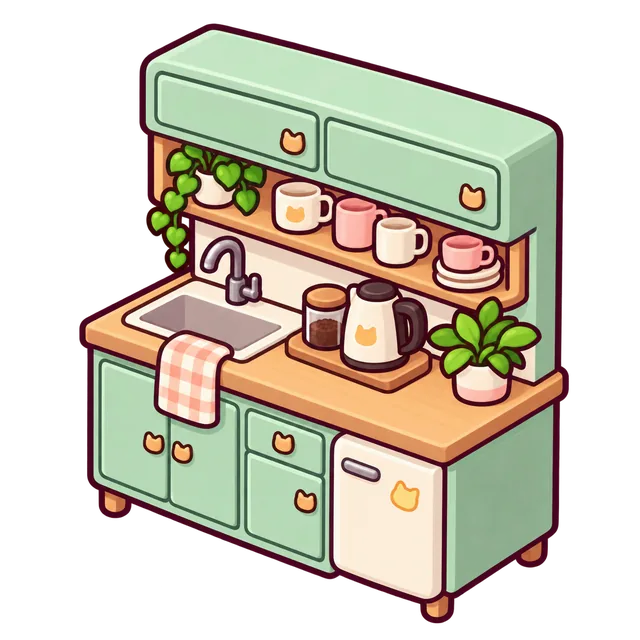
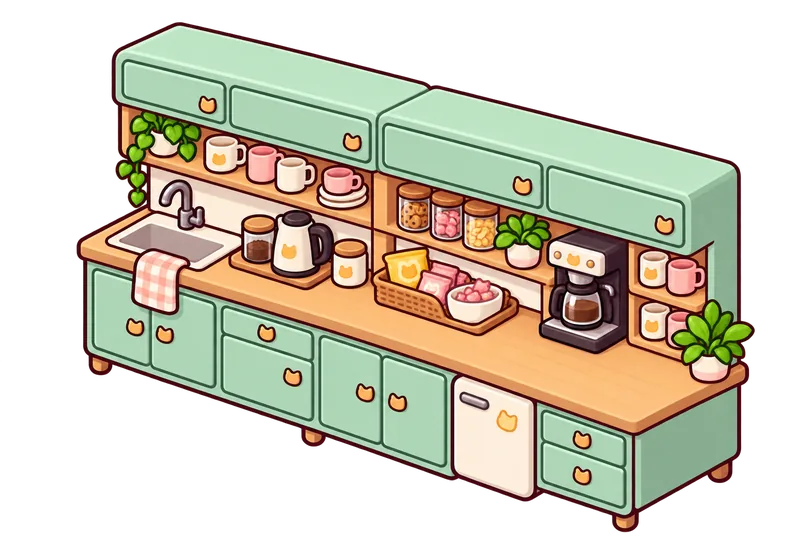
Widen breakroom and align furniture art with office floor

diff --git a/game.js b/game.js
@@ -11,7 +11,7 @@
     {id:'longRack',name:'긴 의류 행거',sprite:'prop-long-rack',level:1,type:'furniture',spanX:2,bonus:{efficiency:2}},
     {id:'computerDesk',name:'컴퓨터 책상',sprite:'prop-computer-desk',level:2,type:'furniture',spanX:2,bonus:{design:2,trend:1}},
     {id:'mannequin',name:'마네킹',sprite:'prop-mannequin',level:1,type:'furniture',bonus:{sewing:2}},
-    {id:'breakroom',name:'탕비실',sprite:'prop-breakroom',level:2,type:'furniture',bonus:{efficiency:2}},
+    {id:'breakroom',name:'탕비실',sprite:'prop-breakroom',level:2,type:'furniture',spanX:2,bonus:{efficiency:2}},
     {id:'fridge',name:'냉장고',sprite:'prop-fridge',level:2,type:'furniture',bonus:{efficiency:1}},
     {id:'largePhoto',name:'확장 촬영 공간',sprite:'prop-large-photo',level:4,type:'furniture',spanX:2,bonus:{design:1,trend:2}},
     {id:'fabricSamples',name:'원단 샘플 수납장',sprite:'prop-fabric-samples',level:3,type:'furniture',bonus:{design:1,sewing:1}},
@@ -37,6 +37,7 @@
   ];
   const workers = items.filter(i => i.type === 'worker');
   const furniture = items.filter(i => i.type === 'furniture');
+  const furnitureTilt = {designDesk:14,sewingDesk:17,rack:22,photo:15,moodboard:15,lounge:15,longRack:22,computerDesk:18,mannequin:0,breakroom:13,fridge:18,largePhoto:16,fabricSamples:20};
   const skeletonImage = img => {
     img.setAttribute('data-skeleton','');
     const finish = () => img.classList.add('image-ready');
@@ -96,7 +97,7 @@
   const styles = ['미니멀','스트리트','클래식','러블리','아웃도어'];
   const targets = ['20대 직장인','10대 학생','아웃도어 고객'];
   const initial = () => ({
-    layoutVersion:3,companyName:'',officeLevel:1,companyLevel:1,assets:180,customers:0,releases:0,monthsElapsed:0,localSave:false,
+    layoutVersion:4,companyName:'',officeLevel:1,companyLevel:1,assets:180,customers:0,releases:0,monthsElapsed:0,localSave:false,
     research:0,unlocks:[],staff:{},hired:[],ownedFurniture:[],history:[],placed:[],loan:{principal:0,interestDue:0}
   });
   let state = initial();
@@ -116,7 +117,7 @@
         interestDue:Number.isFinite(saved.loan?.interestDue)?Math.max(0,saved.loan.interestDue):0
       };
       for(const id of loaded.hired) loaded.staff[id] = loaded.staff[id] || {level:1,xp:0};
-      if(saved.layoutVersion!==3){
+      if(saved.layoutVersion!==3&&saved.layoutVersion!==4){
         const n=gridSizes[loaded.officeLevel-1],oldWidth=saved.layoutVersion===2?8:10,oldHeight=saved.layoutVersion===2?8:7;
         const used=new Set();
         loaded.placed=loaded.placed.map(p=>{
@@ -128,7 +129,25 @@
           }
           used.add(x+','+y);return {...p,x,y};
         });
-        loaded.layoutVersion=3;
+      }
+      if(saved.layoutVersion!==4){
+        const n=gridSizes[loaded.officeLevel-1],remapped=[];
+        const width=id=>{
+          const kind=loaded.ownedFurniture.find(o=>o.id===id)?.kind||id;
+          return furniture.find(f=>f.id===kind)?.spanX||1;
+        };
+        const fits=(id,x,y)=>x>=0&&y>=0&&x+width(id)<=n&&y<n&&remapped.every(p=>y!==p.y||x+width(id)<=p.x||p.x+width(p.id)<=x);
+        for(const piece of loaded.placed){
+          let {x,y}=piece;
+          if(!fits(piece.id,x,y)){
+            const free=Array.from({length:n*n},(_,i)=>({x:i%n,y:Math.floor(i/n)})).find(cell=>fits(piece.id,cell.x,cell.y));
+            if(!free)continue;
+            ({x,y}=free);
+          }
+          remapped.push({...piece,x,y});
+        }
+        loaded.placed=remapped;
+        loaded.layoutVersion=4;
       }
       return loaded;
     }
@@ -249,6 +268,7 @@
       button.className='piece '+d.type+(selected===p.id?' selected':'');
       button.setAttribute('aria-label',d.name+' · '+(p.x+1)+'열 '+(p.y+1)+'행. '+(editMode?'끌거나 선택 후 빈 칸을 터치해 이동':'선택해 정보 보기'));
       if(d.spanX===2)button.classList.add('wide-furniture');
+      if(d.type==='furniture')button.style.setProperty('--furniture-tilt',(furnitureTilt[d.id]||0)+'deg');
       const center=cellCenter(p.x+(d.spanX===2 ? .5 : 0),p.y);
       button.style.left=center.left+'%';
       button.style.top=center.top+'%';
@@ -259,7 +279,7 @@
       let dragStart=null, dragged=false;
       button.addEventListener('pointerdown',event=>{
         if(!editMode)return;
-        dragStart={x:event.clientX,y:event.clientY};
+        dragStart={x:event.clientX,y:event.clientY,cell:positionFromPointer(event),origin:{x:p.x,y:p.y}};
         button.setPointerCapture(event.pointerId);
       });
       button.addEventListener('pointermove',event=>{
@@ -267,11 +287,12 @@
         const dx=event.clientX-dragStart.x,dy=event.clientY-dragStart.y;
         if(Math.hypot(dx,dy)>5){
           button.style.transform='translate(-50%,-50%) translate('+dx+'px,'+dy+'px)';
-          const cell=positionFromPointer(event),target=tileByCell.get(cell.x+','+cell.y);
-          const companion=d.spanX===2?tileByCell.get((cell.x+1)+','+cell.y):null;
+          const cell=positionFromPointer(event),pos={x:dragStart.origin.x+cell.x-dragStart.cell.x,y:dragStart.origin.y+cell.y-dragStart.cell.y};
+          const target=tileByCell.get(pos.x+','+pos.y);
+          const companion=d.spanX===2?tileByCell.get((pos.x+1)+','+pos.y):null;
           if(target!==dragTargetTile||companion!==dragTargetCompanion){clearDragTarget();dragTargetTile=target||null;dragTargetCompanion=companion||null;}
           if(dragTargetTile){
-            const valid=canPlace(p.id,cell.x,cell.y);
+            const valid=canPlace(p.id,pos.x,pos.y);
             for(const tile of [dragTargetTile,dragTargetCompanion].filter(Boolean)){
               tile.classList.add('drag-target');tile.classList.toggle('drag-invalid',!valid);
             }
@@ -282,9 +303,9 @@
       button.addEventListener('pointerup',event=>{
         if(!dragStart)return;
         const distance=Math.hypot(event.clientX-dragStart.x,event.clientY-dragStart.y);
+        const cell=positionFromPointer(event),pos={x:dragStart.origin.x+cell.x-dragStart.cell.x,y:dragStart.origin.y+cell.y-dragStart.cell.y};
         dragStart=null;button.style.transform='';clearDragTarget();
         if(distance>9){
-          const pos=positionFromPointer(event);
           dragged=true;move(p.id,pos.x,pos.y);
           setTimeout(()=>{dragged=false;},100);
         }

diff --git a/style.css b/style.css
@@ -579,6 +579,7 @@ img[data-skeleton]:not(.image-ready){border-radius:10px;filter:none}
 @media(max-width:680px){.office-payroll{font-size:9px;line-height:1.2}.office-payroll strong{font-size:11px}}
 .room-world .piece.wide-furniture{width:calc(var(--piece-size,10%) * 1.8)}
 .room-world .piece.wide-furniture img{width:120%;left:-10%;height:185%;bottom:48%}
+.room-world .piece.furniture img{transform:skewY(var(--furniture-tilt,0deg));transform-origin:50% 100%}
 @media(max-width:680px){.room-world .piece.wide-furniture{width:calc(var(--piece-size-mobile,var(--piece-size,10%)) * 1.7)}}
 .section-tabs{display:flex;gap:6px;flex-wrap:wrap;margin:14px 0}
 .section-tabs button{flex:1 1 70px;min-width:0;padding:10px 8px;border:1px solid #e8c7c2;border-radius:9px;background:#fff6ed;color:#735261;font:inherit;font-weight:750;cursor:pointer}
